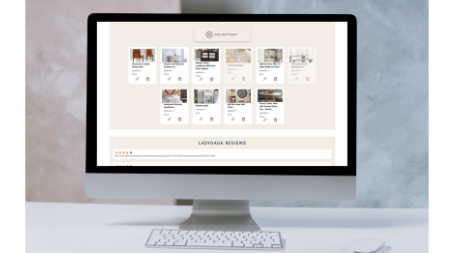
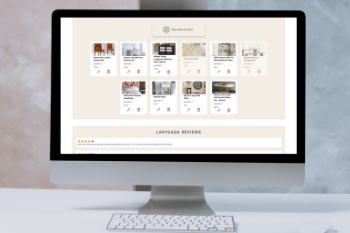
docs(readme): changes in readme mockups

diff --git a/README.md b/README.md
@@ -11,12 +11,11 @@ Furniss is a marketplace where registered users can buy and sell upcycled and pr
 
 Users can create an account, publish new products to their gallery, check their reviews and ratings, find the most popular items, search, filter and sort products, process payments for their shopping and access their sales and purchase history. </br>
 
-![Furniss User Gallery](./screenshots/mockup-usergallery-small.png)
+![Furniss Category](./screenshots/mockup-category-small.png)
+![Furniss Product Details](./screenshots/mockup-details-small.png)
 ![Furniss Zoom](./screenshots/mockup-zoom-small.png)
-
-<img src="./screenshots/mockup-zoom.png" alt="furniss-zoom" width="400"/>
-<img src="./screenshots/mockup-gallery.png" alt="furniss-category" width="400"/>
-<img src="./screenshots/mockup-history.png" alt="furniss-category" width="400"/></br>
+![Furniss User Gallery](./screenshots/mockup-usergallery-small.png)
+![Furniss Zoom](./screenshots/mockup-history-small.png)
 
 ## Getting started 🚀
 
